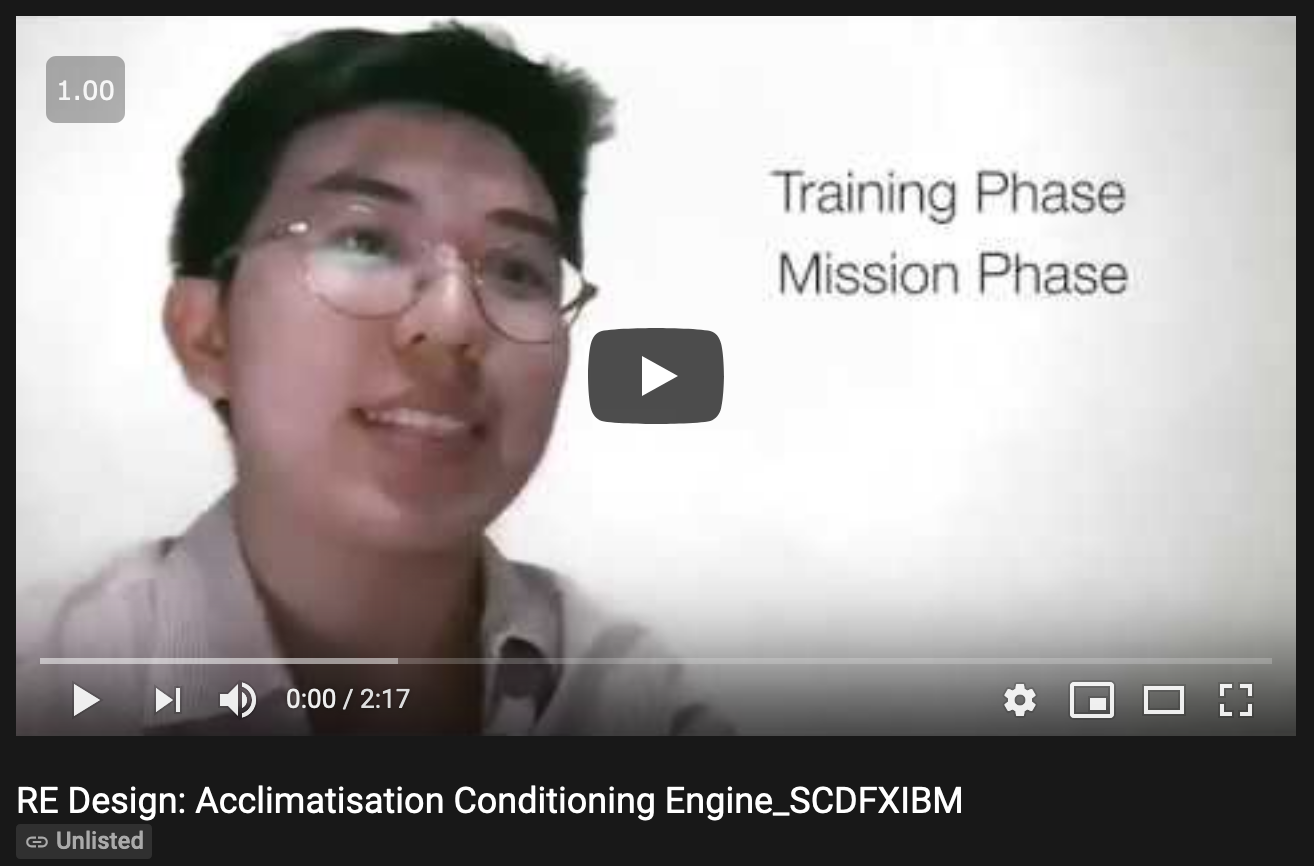
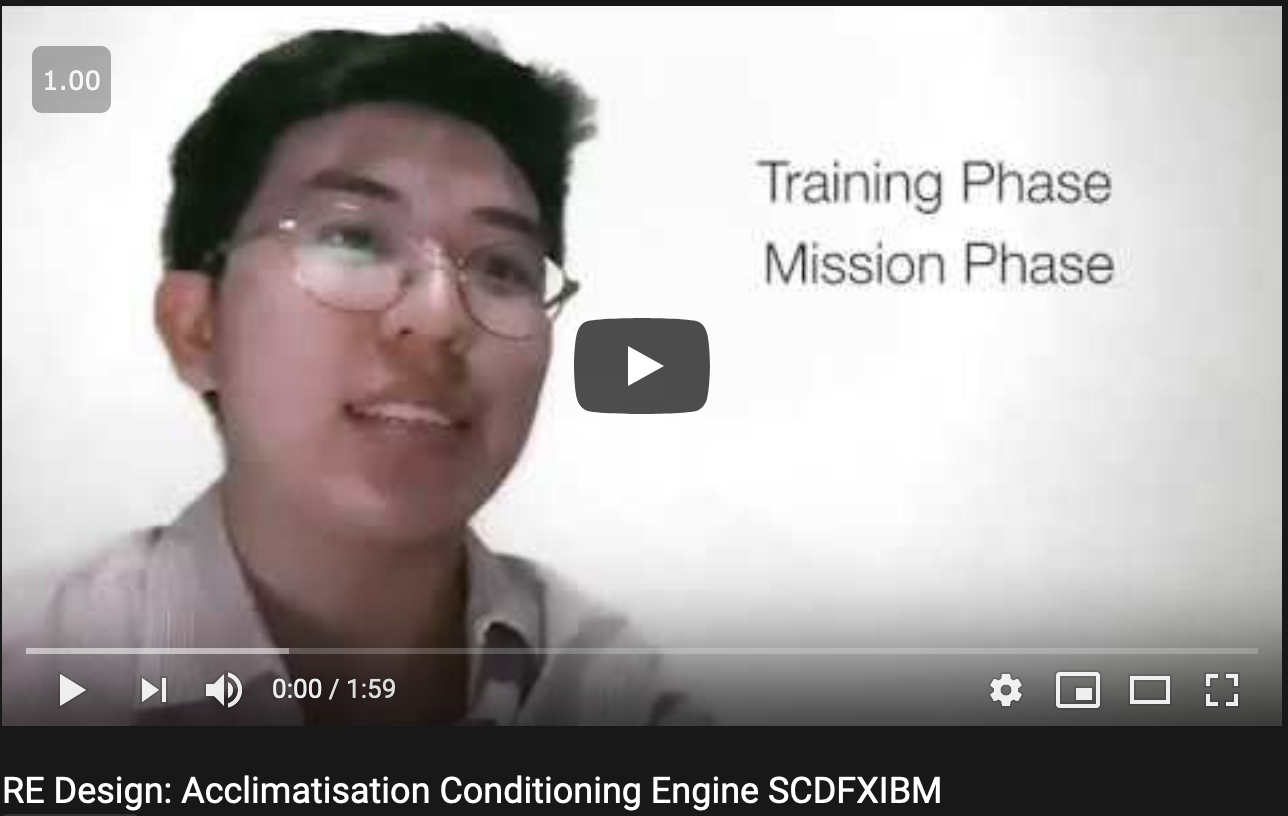
edit video

diff --git a/README.md b/README.md
@@ -48,7 +48,7 @@ Considering the highly volatile weather due to climate change, our customised th
 
 ## Demo video
 
-[![Watch the video](https://github.com/TanLiangMing/REDesign-ACE_SCDFXIBM/blob/master/pics/youtube.png)](https://youtu.be/6lHP4fo25g4)
+[![Watch the video](https://github.com/TanLiangMing/REDesign-ACE_SCDFXIBM/blob/master/pics/youtube.png)](https://youtu.be/a5J9cl1-_zQ)
 
 ## The architecture
 
@@ -80,28 +80,28 @@ from botocore.client import Config
 import ibm_boto3
 import seaborn as sb
 ```
-### Watson Internet of Things Platform	
-1. Create and launch an instance of Watson Internet of Things platform	
-![Launch](pics/Launch.JPG)	
+### Watson Internet of Things Platform
+1. Create and launch an instance of Watson Internet of Things platform
+![Launch](pics/Launch.JPG)
 
-2. Integrate local devices by adding devices to the IoT platform. Set Device type, Device ID and authentication token.	
-![Add](pics/Add.JPG)	
+2. Integrate local devices by adding devices to the IoT platform. Set Device type, Device ID and authentication token.
+![Add](pics/Add.JPG)
 
 3. Using the IBM Cloud CLI, push a web application onto the IBM Cloud.
 
-![loud_push](pics/loud_push.JPG)	
+![loud_push](pics/loud_push.JPG)
 
 4. IoT devices can connect and send data to the IoT platform via the cloud web application
-<img src="https://github.com/TanLiangMing/REDesign-ACE_SCDFXIBM/blob/master/pics/HR.JPG" alt="IOT" height="350"/>	
+<img src="https://github.com/TanLiangMing/REDesign-ACE_SCDFXIBM/blob/master/pics/HR.JPG" alt="IOT" height="350"/>
 
-5. The status of the various devices can be monitored through the IoT platform	
-![Browse](pics/Browse.JPG)	
+5. The status of the various devices can be monitored through the IoT platform
+![Browse](pics/Browse.JPG)
 
-6. Live feed from the different monitors can be displayed and viewed	
-<img src="https://github.com/TanLiangMing/REDesign-ACE_SCDFXIBM/blob/master/pics/Watson_IoT_platform.JPG" alt="IOT" height="450"/>	
+6. Live feed from the different monitors can be displayed and viewed
+<img src="https://github.com/TanLiangMing/REDesign-ACE_SCDFXIBM/blob/master/pics/Watson_IoT_platform.JPG" alt="IOT" height="450"/>
 
-### IBM Cloudant	
-Historical data for each individual is then stored on IBM cloudant database for future access	
+### IBM Cloudant
+Historical data for each individual is then stored on IBM cloudant database for future access
 <img src="https://github.com/TanLiangMing/REDesign-ACE_SCDFXIBM/blob/master/pics/Cloudant_Database.JPG" alt="Cloudant Database" height="350"/>
 
 ### Installing
